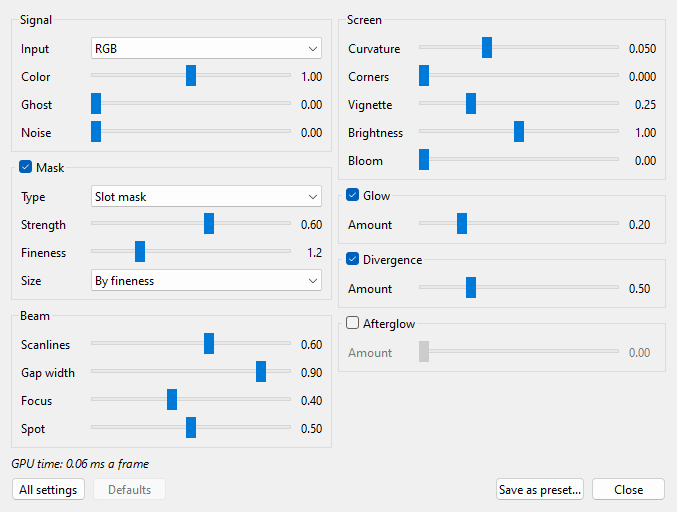
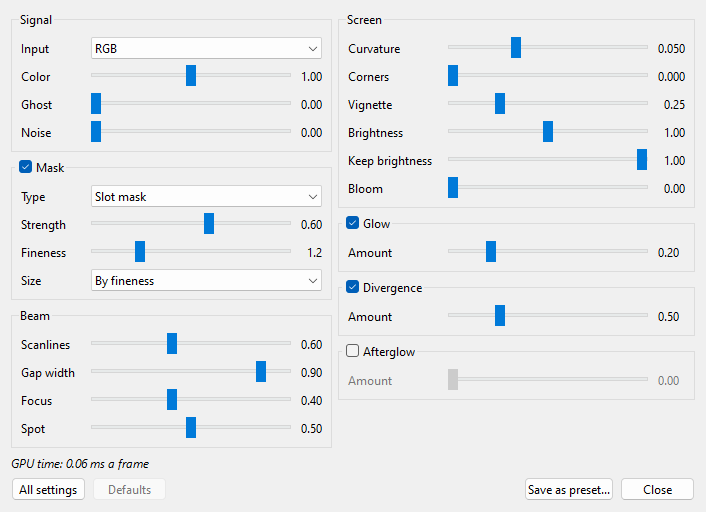
manual: Display - Scanlines past 1, Keep brightness; the sheet's picture

diff --git a/docs/manual/view.md b/docs/manual/view.md
@@ -168,7 +168,7 @@ there. The list has up to four parts:
   colors a PAL set makes of fine patterns and at color edges; **RGB monitor** - the
   Commodore 1084S; **PVM** - a broadcast monitor, sharp, bent a little as a cylinder is,
   the look a new installation starts with; **Tridot** - a fine dot mask, three screen
-  pixels a triad at any scale, and a sharp beam; **Xpixie** - soft and glowing, with
+  pixels a triad at any scale, a thin sharp beam and deep scanlines; **Xpixie** - soft and glowing, with
   afterglow, a ghost and noise;
 - the presets you saved;
 - shader files of your own, from the `shaders` folder of the configuration.
@@ -205,11 +205,15 @@ that can be switched off, and then costs nothing:
   mask is drawn with the display's own subpixels: if its colors look wrong, set
   **Display's subpixels** under **All settings** to your display's order, **RGB** or
   **BGR**, or to **Other** for a mask without colors;
-- **Beam** - **Scanlines**, how dark the gap between two lit lines is; **Gap width**, how
+- **Beam** - **Scanlines**, how dark the gap between two lit lines is - past 1 the beam
+  gets thinner and a black band opens between the lines; **Gap width**, how
   much of a line its soft edges take; **Focus**, how sharp a dot's edge is along the line;
   **Spot**, how wide the beam's spot is - with it a dot's ends come out round and a
   bright line a little thicker than a dim one, as on a tube;
-- **Screen** - **Curvature**, **Corners**, **Vignette**, **Brightness**; **Bloom** - the mask
+- **Screen** - **Curvature**, **Corners**, **Vignette**, **Brightness**; **Keep brightness** -
+  the light the mask and the scanlines take is given back to the lit lines, so the picture
+  stays as bright as without a look; turned down, less of it is, and the picture is
+  darker, with deeper gaps on bright things; **Bloom** - the mask
   and the scanlines take light, and a pixel cannot give all of it back to what is
   already bright: with Bloom the brightest things keep their light, and the mask and
   the scanlines fade on them instead. A small picture,
